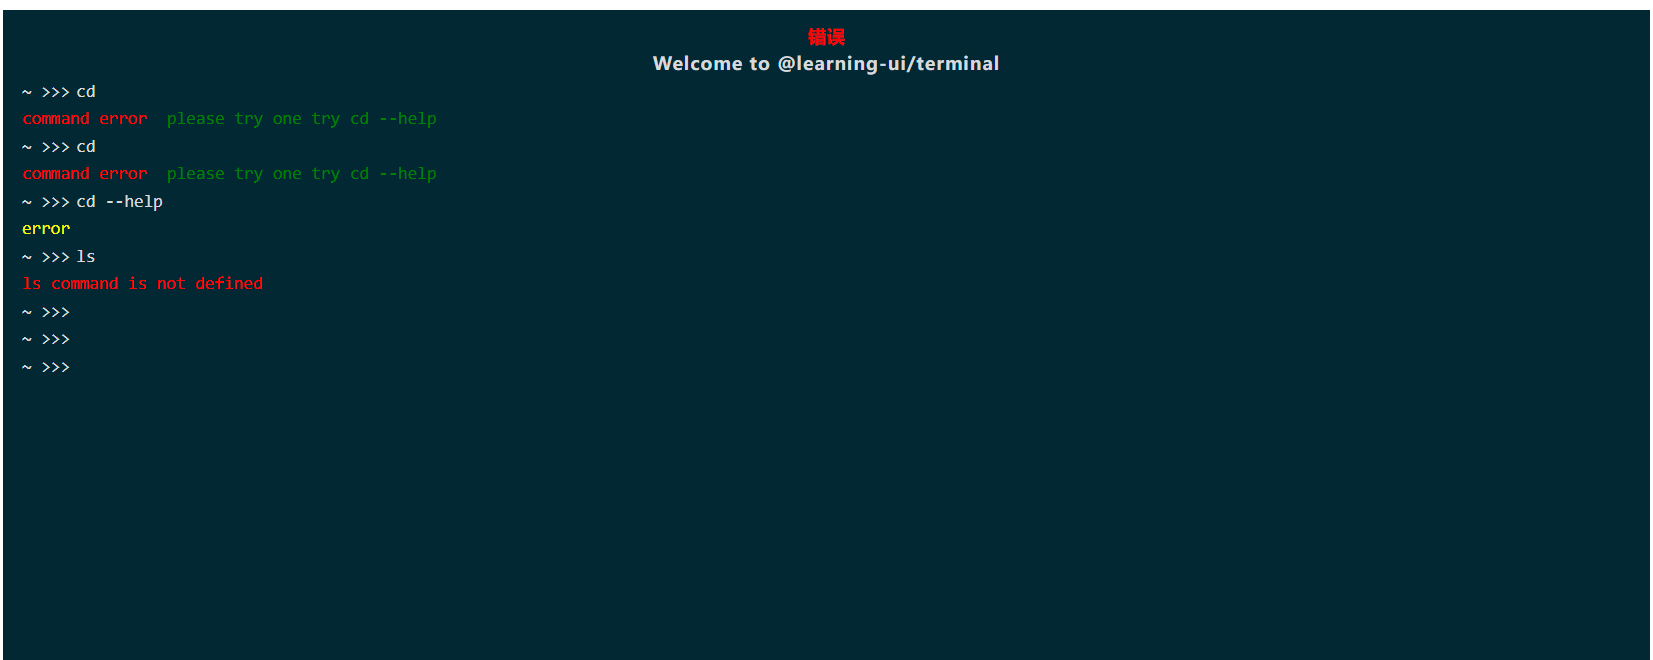
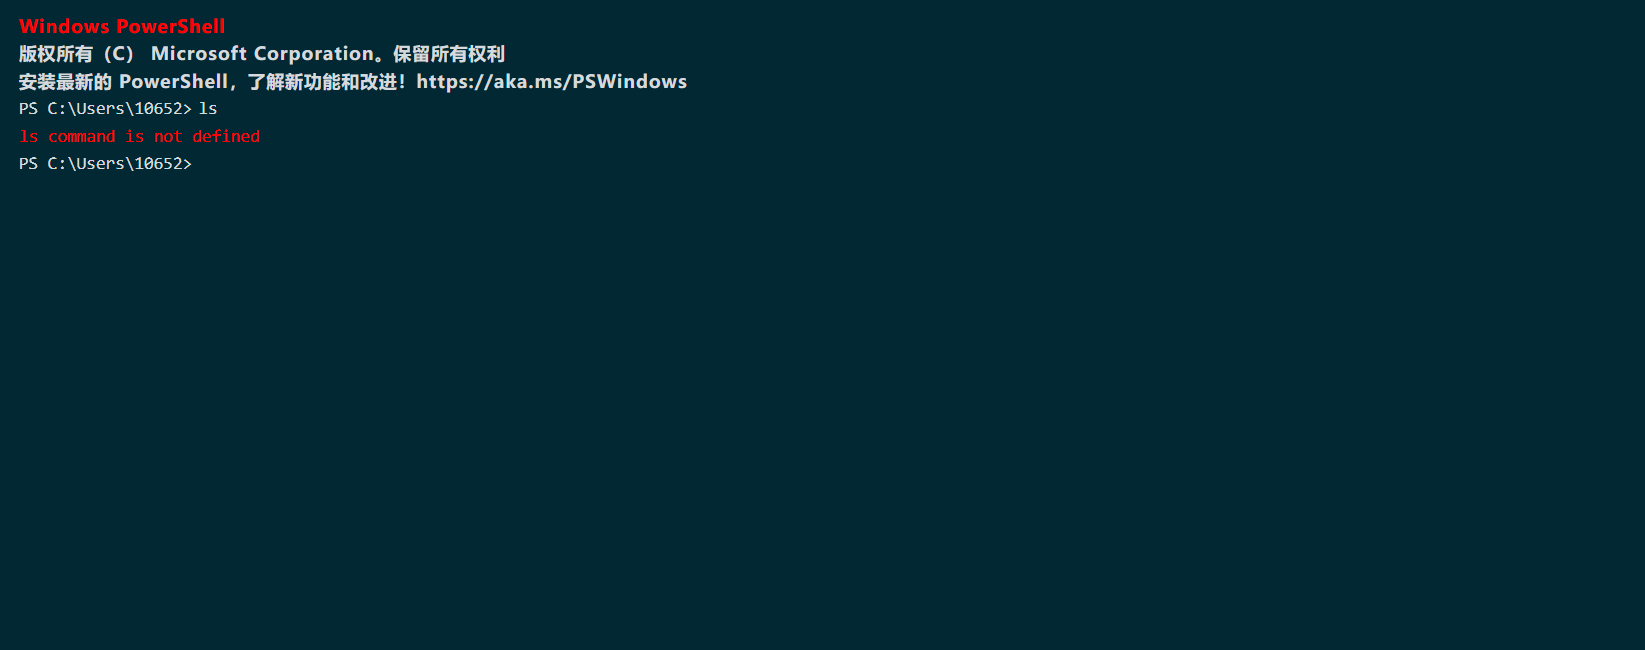
更换图片

Changed region(s): [[0.0, 0.0, 1.0, 1.0], [0.0, 0.3385, 0.155, 0.5231], [0.0, 0.5538, 0.031, 0.5846]]

diff --git a/example/src/App.tsx b/example/src/App.tsx
@@ -32,15 +32,20 @@ const  App = () => {
            });
         }
     };
+
     const terminalRef = useRef(null);
     return (
     <div className="App" ref={terminalRef}>
         <Terminal
             command={commands}
-            prefixCommand={"~ >>>"}
+            prefixCommand={"PS C:\\Users\\10652>"}
             // fontFamily={}
             height={500}
-            terminalMessage= {[ { title: "错误", color: "red" , align: "center"}, { title: "Welcome to @learning-ui/terminal", align: "center" } ]} //{"123123"}
+            terminalMessage= {[
+                { title: "Windows PowerShell", color: "red" , align: "left"},
+                { title: "版权所有（C） Microsoft Corporation。保留所有权利", align: "left" },
+                { title: "安装最新的 PowerShell，了解新功能和改进！https://aka.ms/PSWindows", align: "left" }
+            ]} //{"123123"}
         />
         <Input />
 
